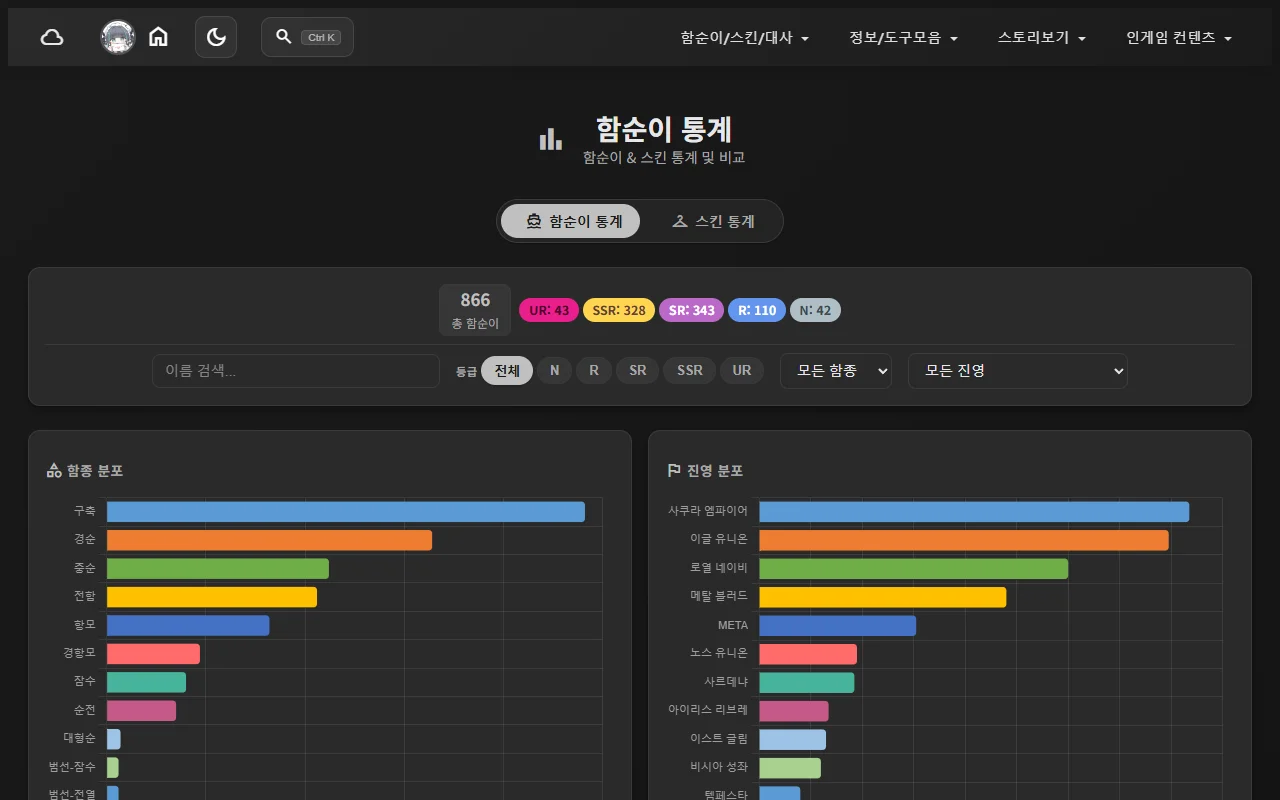
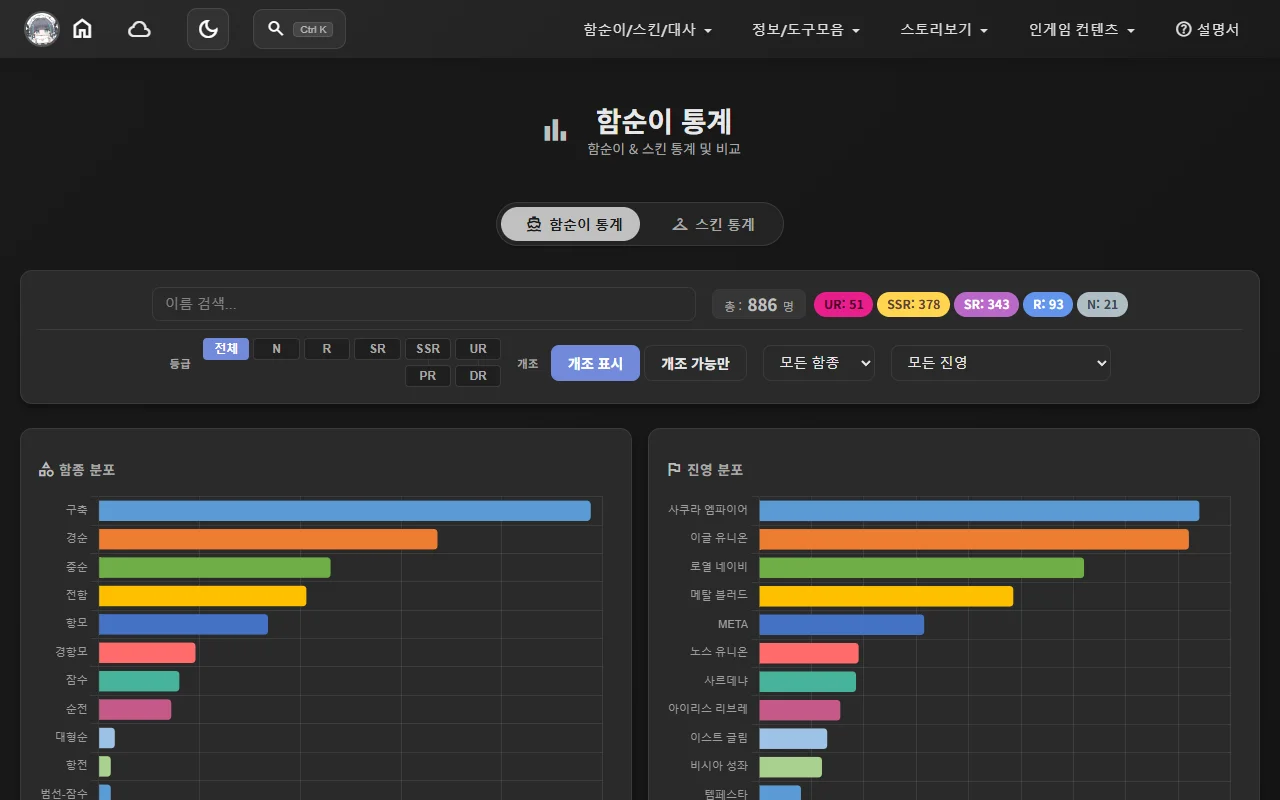
설명서 - 함순이 통계 개조/PR·DR 항목 추가 및 스크린샷 갱신

diff --git a/src/wiki-content/SHIPGIRL_STATS.md b/src/wiki-content/SHIPGIRL_STATS.md
@@ -11,6 +11,9 @@
 
 ## 주요 기능
 - **함순이 통계 탭**: 총 함순이 수와 등급별(N~UR) 분포, 함종 분포, 진영 분포 차트. 이름 검색 + 등급/함종/진영 필터로 원하는 범위만 잘라서 볼 수 있음
+- **개조 반영**: `개조 표시`를 켜두면 개조 함순이를 개조 후 기준(스탯·등급·함종)으로 집계함. 등급이 한 단계 올라가고(헬레나 SR → 헬레나·改 SSR) 함종이 바뀌는 함순이(모가미 경순→중순, 후소·이세 전함→항전 등)도 필터·차트에 그대로 반영됨. 끄면 개조 전 기준으로 돌아감
+- **개조 가능만**: 개조가 있는 함순이만 추려서 봄. `개조 표시`와 따로 노는 토글이라, 개조 함순이를 개조 전 스탯으로 보는 것도 가능
+- **PR/DR 필터**: 연구 함순이는 등급 필터에서 SSR/UR 아래에 PR/DR로 따로 잡혀 있음. SSR을 누르면 PR까지 전부, PR만 누르면 연구 SSR만 보이는 식
 - **스킨 통계 탭**: 총 스킨 수, 함순이당 평균 스킨 수, L2D/L2D+/듀얼/쁘띠모션 개수 같은 요약과 태그 분포, 스킨 많은 함순이 TOP 랭킹까지 확인 가능
 - **필터 연동**: 모든 차트/표가 위쪽 필터(등급/함종/진영/스킨 타입)에 실시간으로 반응함
 
